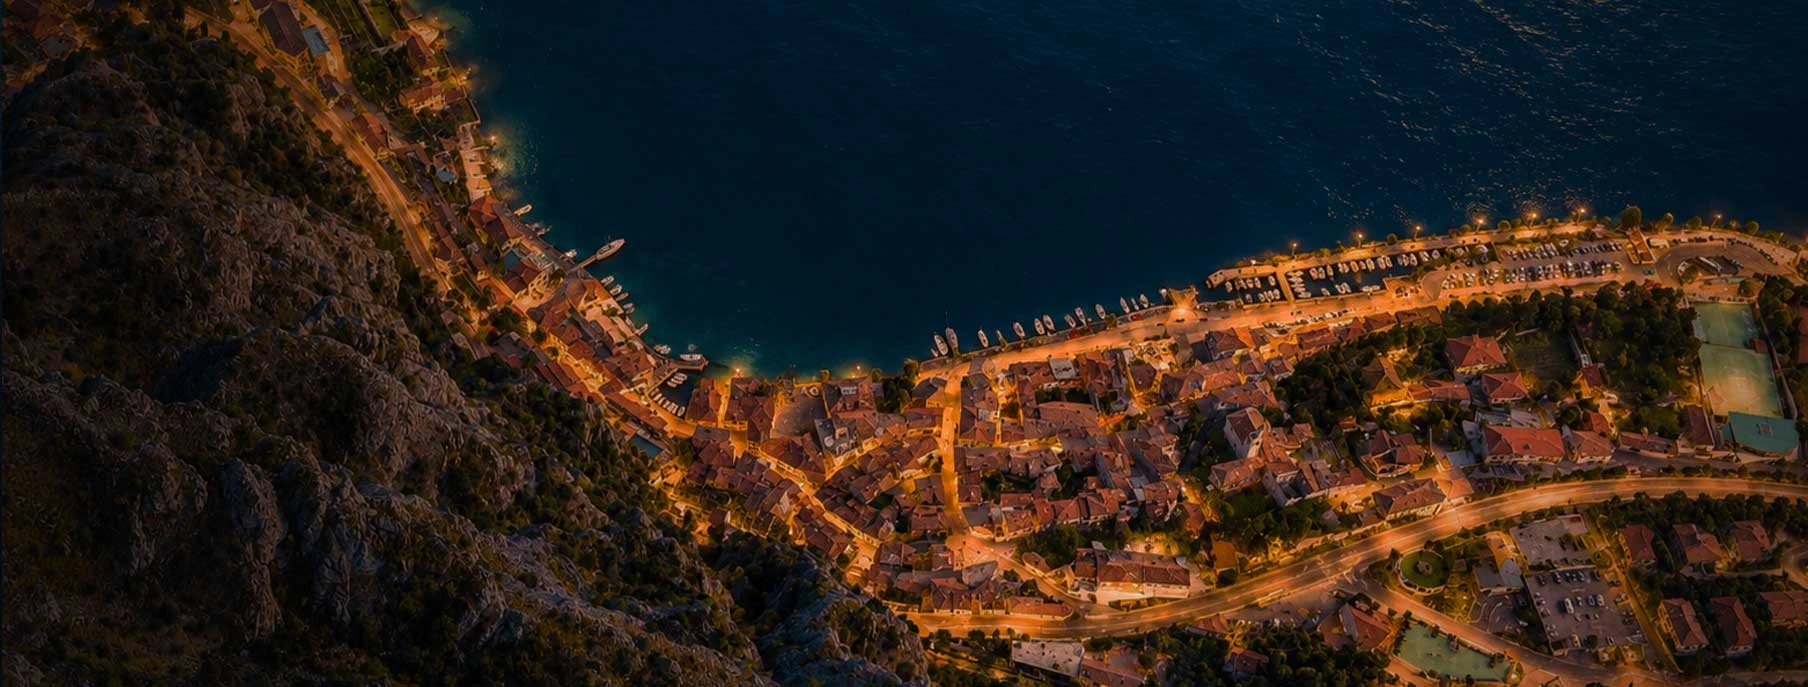
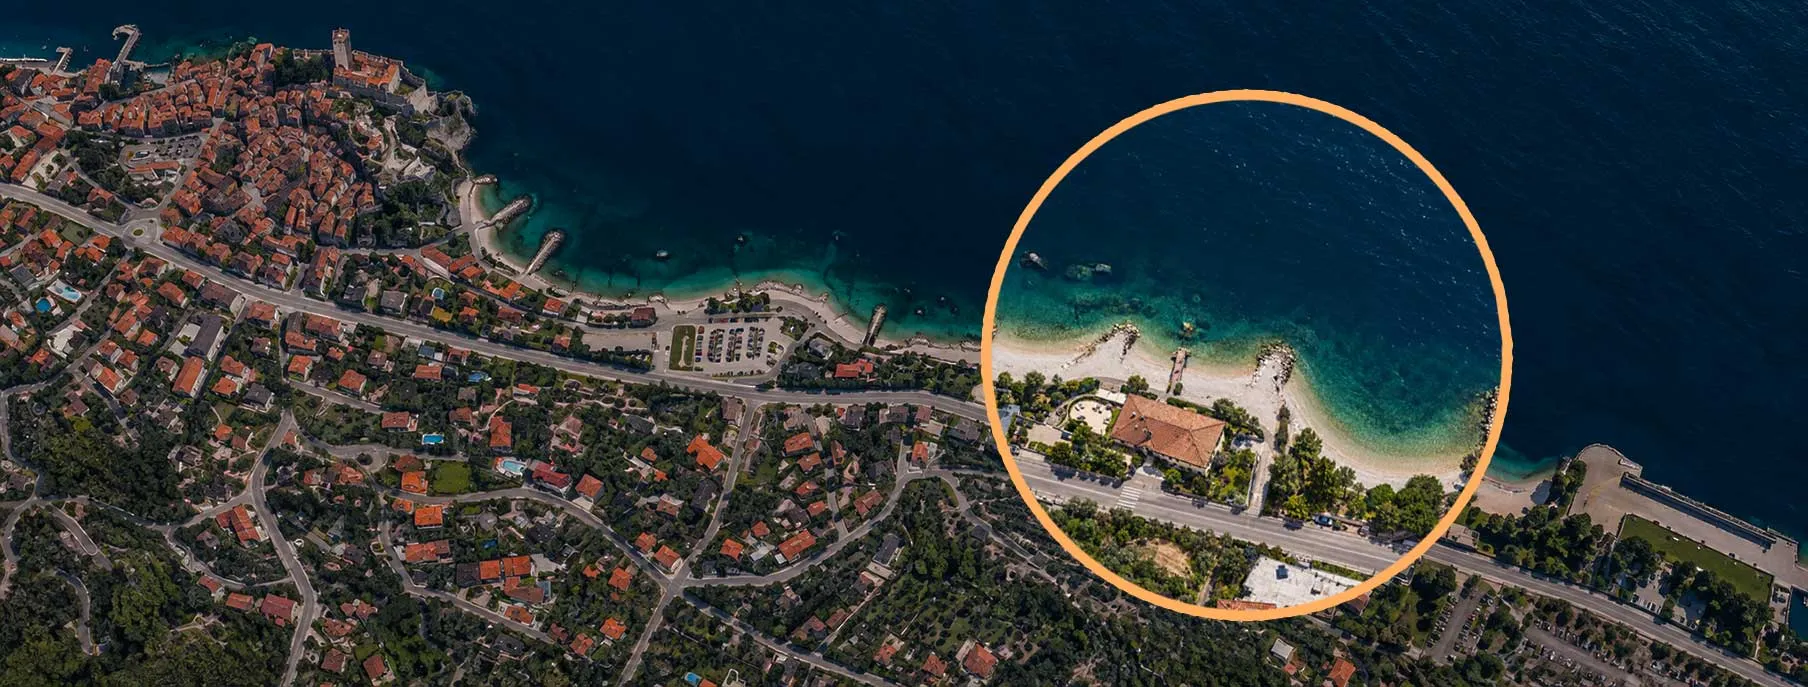
change history and vizit content

diff --git a/index.html b/index.html
@@ -458,20 +458,20 @@
 
       <div class="container experience__container">
         <div class="experience__year" aria-hidden="true" data-i18n="experience.year">
-          LAKE
+          1300
         </div>
 
         <div class="experience__content" data-reveal>
           <p class="experience__eyebrow" data-i18n="experience.eyebrow">
-            A place by the water
+            A place shaped by history
           </p>
 
           <h2 class="experience__title" id="experience-title" data-i18n="experience.title">
-            Dining directly on Lake Garda
+            Dining beside the Castello Scaligero
           </h2>
 
           <p class="experience__text" data-i18n="experience.text">
-            At Ristorante al Pontile, the lake is part of the experience. Set directly on the shores of Lake Garda in Malcesine, the restaurant offers tables on its private pontile with a privileged view of the medieval Castello di Malcesine, bringing together Italian cuisine, the beauty of the lake and the atmosphere of an unforgettable evening.
+            At Ristorante al Pontile, the lake meets the history of Malcesine. Just beyond the water stands the Castello Scaligero, the town's iconic fortress rebuilt by the Scaliger family around 1300. From a table by the lake, guests can experience the landscape that has defined Malcesine for centuries — the Garda shoreline, the medieval castle and the mountains of Monte Baldo.
           </p>
         </div>
       </div>
@@ -1535,11 +1535,7 @@
             </a>
           </div>
         </div>
-
-        <!-- AL PONTILE PIN -->
-        <div class="visit__pin" aria-hidden="true">
-          <img class="visit__pin-image" src="assets/images/content/contentpin.webp" alt="" loading="lazy">
-        </div>
+        
       </div>
     </section>
 

diff --git a/css/components/visit.css b/css/components/visit.css
@@ -28,7 +28,7 @@
     width: 100%;
     height: 100%;
     object-fit: cover;
-    object-position: bottom;
+    object-position: center;
   }
   
   /* =========================================================
@@ -42,24 +42,24 @@
     background:
     linear-gradient(
         90deg,
-        rgba(3, 7, 10, 0.95) 0%,
-        rgba(3, 7, 10, 0.72) 14%,
-        rgba(3, 7, 10, 0.45) 28%,
-        rgba(3, 7, 10, 0.26) 43%,
+        rgba(3, 7, 10, 0.75) 0%,
+        rgba(3, 7, 10, 0.52) 14%,
+        rgba(3, 7, 10, 0.35) 28%,
+        rgba(3, 7, 10, 0.16) 43%,
         rgba(3, 7, 10, 0.03) 60%,
         transparent 75%
       ),
       linear-gradient(
         0deg,
-        rgba(3, 7, 10, 0.68) 0%,
-        rgba(3, 7, 10, 0.38) 12%,
-        rgba(3, 7, 10, 0.12) 28%,
+        rgba(3, 7, 10, 0.78) 0%,
+        rgba(3, 7, 10, 0.58) 12%,
+        rgba(3, 7, 10, 0.42) 28%,
         transparent 48%
       ),
       linear-gradient(
         180deg,
-        rgba(0, 0, 0, 0.78) 0%,
-        rgba(0, 0, 0, 0.55) 33%,
+        rgba(0, 0, 0, 0.58) 0%,
+        rgba(0, 0, 0, 0.35) 33%,
         transparent 90%
       )
   }
